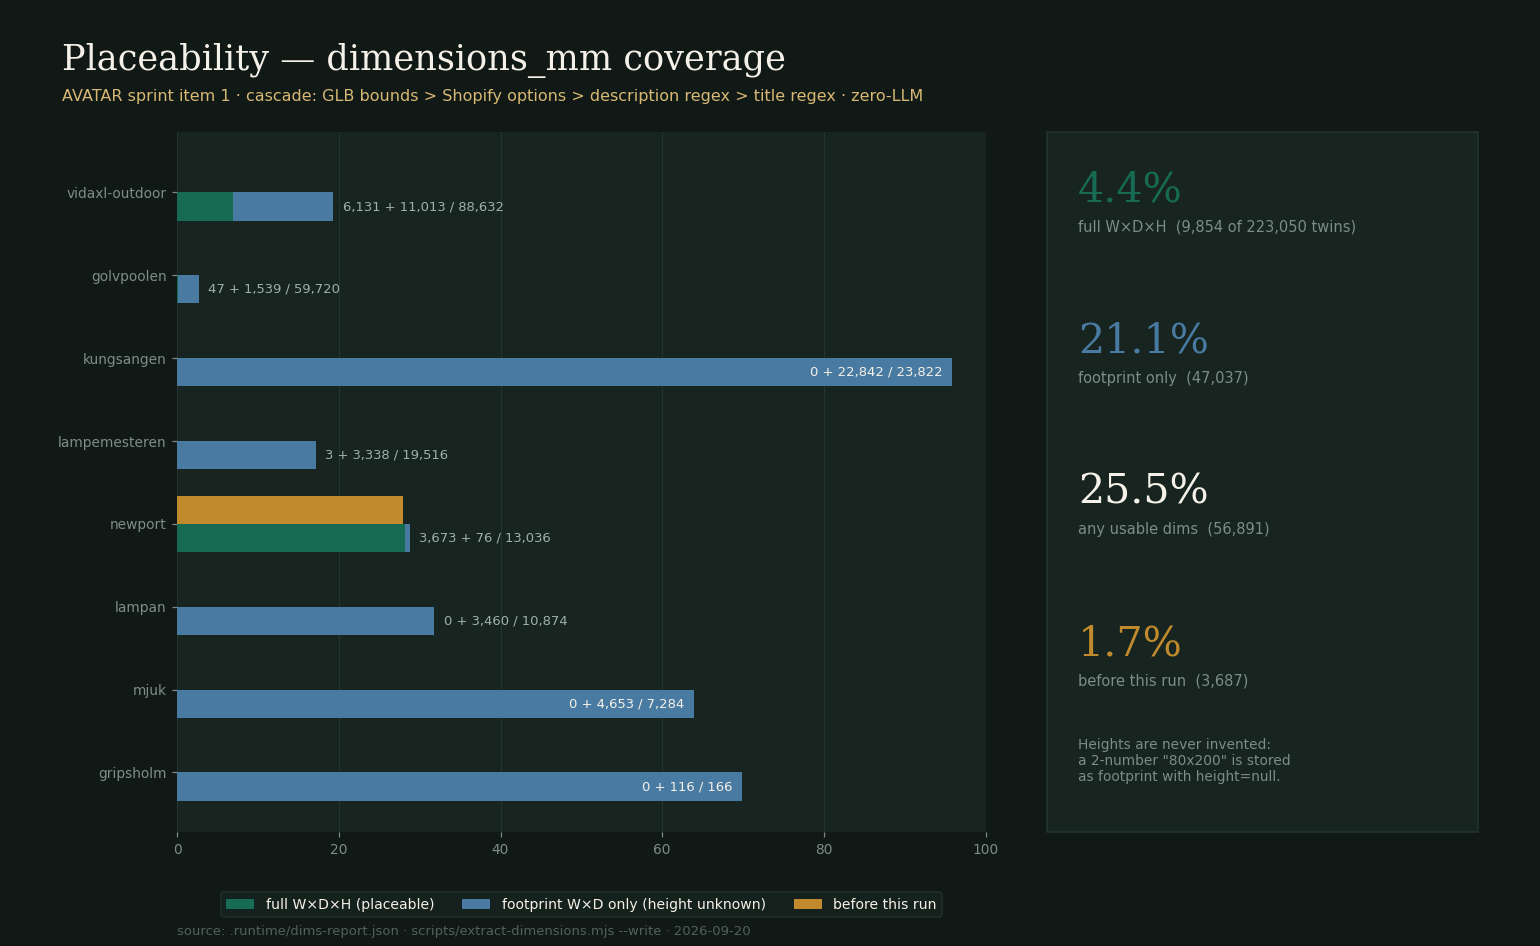
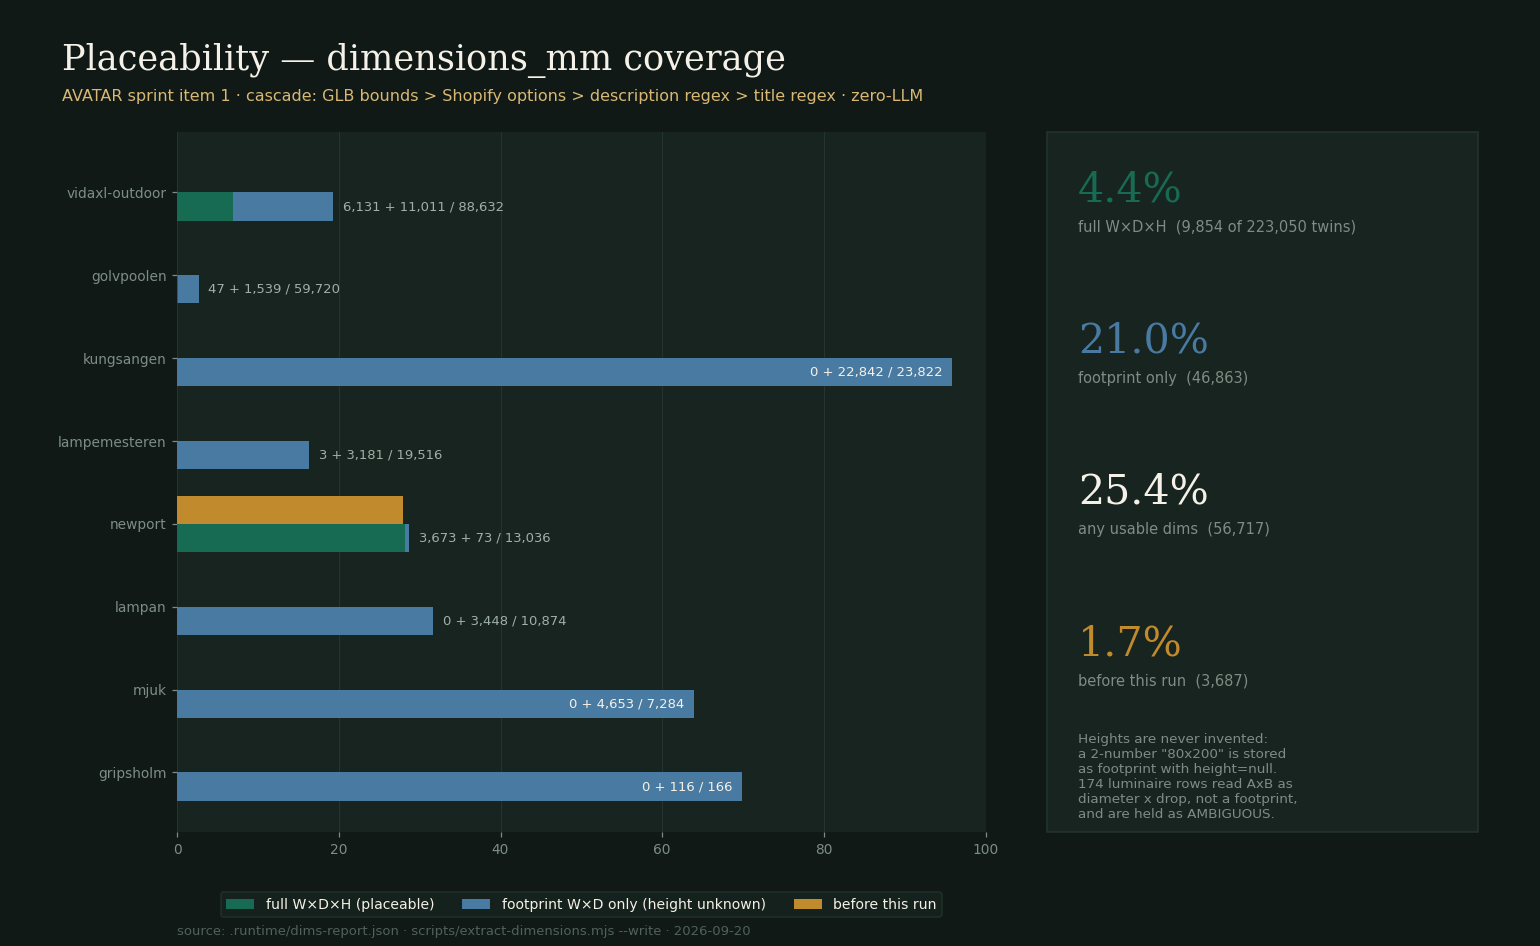
Item 1 correction: pin the true baseline, reflect the luminaire-ambiguity guard
Two honesty fixes to the placeability screenshot after item 3 changed the data
underneath it:

1. The chart read before_placeable out of dims-report.json, but that field
   reflects state at the time the extractor last ran -- after a re-run it reports
   the POST-run number, which would have silently redrawn the "before" bar as
   4.4% and erased the improvement it was meant to show. The true pre-sprint
   baseline (3,884 twins / 1.7%, per catalog) is now pinned in
   .runtime/dims-baseline.json and the chart reads it from there.

2. Footprint count moved 47,037 -> 46,863: the luminaire-ambiguity guard added in
   item 3 correctly reclassified 174 rows where a bare "AxB cm" on a lamp is
   diameter x cable drop, not a W x D footprint. Those are now surfaced on the
   chart as AMBIGUOUS rather than counted as usable dims. "Any usable dims" is
   therefore 25.4%, not 25.5%.

Full W x D x H is unchanged at 9,854 (4.4%).

diff --git a/scripts/screens_placeability.py b/scripts/screens_placeability.py
@@ -9,12 +9,17 @@ BG, CARD, PAPER, BRONZE = '#101916', '#17241f', '#f5f1e8', '#d8b874'
 AUTH, INDIC, DERIV = '#176b52', '#c18a2d', '#497aa2'
 
 rep = json.load(open('.runtime/dims-report.json'))
+# The extractor's own before_placeable reflects state at the time it last ran, so
+# after a re-run it reports the post-run number. The true pre-sprint baseline is
+# pinned in its own file.
+BASE = json.load(open('.runtime/dims-baseline.json'))['per_catalog']
 rows = sorted(rep.items(), key=lambda kv: -kv[1]['twins'])
 
 T = sum(s['twins'] for _, s in rows)
-B = sum(s['before_placeable'] for _, s in rows)
+B = sum(BASE.get(c, 0) for c, _ in rows)
 A = sum(s['after_placeable'] for _, s in rows)
 F = sum(s['footprint_only'] for _, s in rows)
+AMB = sum(s.get('ambiguous', 0) for _, s in rows)
 
 fig = plt.figure(figsize=(14, 8.6), facecolor=BG)
 fig.text(0.04, 0.955, 'Placeability — dimensions_mm coverage', color=PAPER,
@@ -26,7 +31,7 @@ ax = fig.add_axes([0.115, 0.12, 0.525, 0.74]); ax.set_facecolor(CARD)
 for s in ax.spines.values(): s.set_visible(False)
 labels = [c for c, _ in rows]
 y = range(len(rows))
-before = [100 * s['before_placeable'] / s['twins'] for _, s in rows]
+before = [100 * BASE.get(c, 0) / s['twins'] for c, s in rows]
 after = [100 * s['after_placeable'] / s['twins'] for _, s in rows]
 foot = [100 * s['footprint_only'] / s['twins'] for _, s in rows]
 
@@ -64,8 +69,9 @@ stat(0.82, f'{100*A/T:.1f}%', f'full W×D×H  ({A:,} of {T:,} twins)', AUTH)
 stat(0.66, f'{100*F/T:.1f}%', f'footprint only  ({F:,})', DERIV)
 stat(0.50, f'{100*(A+F)/T:.1f}%', f'any usable dims  ({A+F:,})')
 stat(0.34, f'{100*B/T:.1f}%', f'before this run  ({B:,})', INDIC)
-fig.text(cx + 0.02, 0.22, 'Heights are never invented:\na 2-number "80x200" is stored\nas footprint with height=null.',
-         color='#7d8d86', fontsize=9, va='top')
+fig.text(cx + 0.02, 0.225, 'Heights are never invented:\na 2-number "80x200" is stored\nas footprint with height=null.\n'
+         f'{AMB} luminaire rows read AxB as\ndiameter x drop, not a footprint,\nand are held as AMBIGUOUS.',
+         color='#7d8d86', fontsize=8.8, va='top')
 
 fig.text(0.115, 0.012, 'source: .runtime/dims-report.json · scripts/extract-dimensions.mjs --write · 2026-09-20',
          color='#4f6159', fontsize=8.6)
